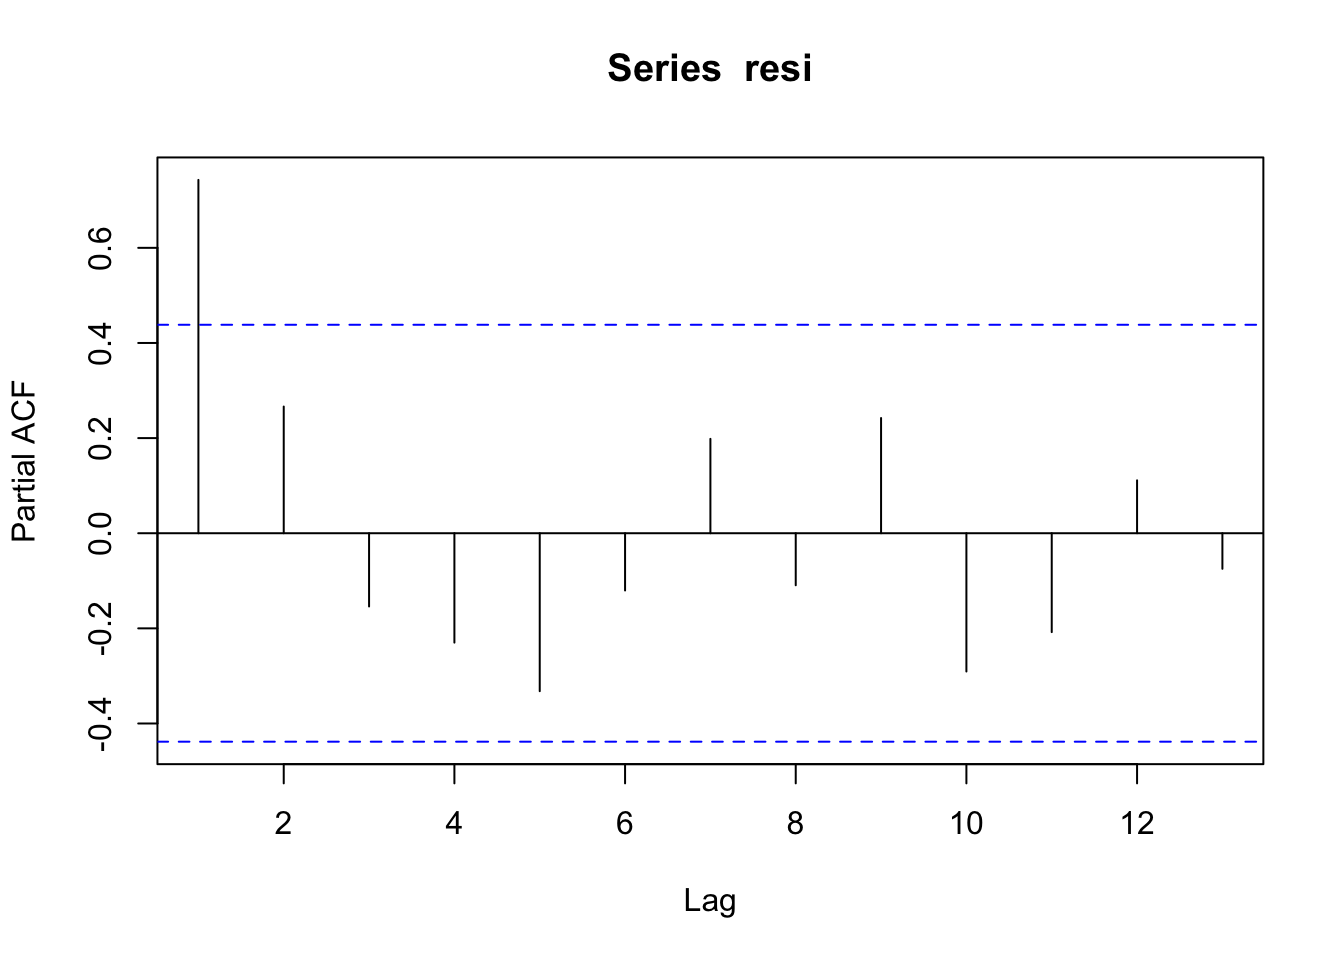
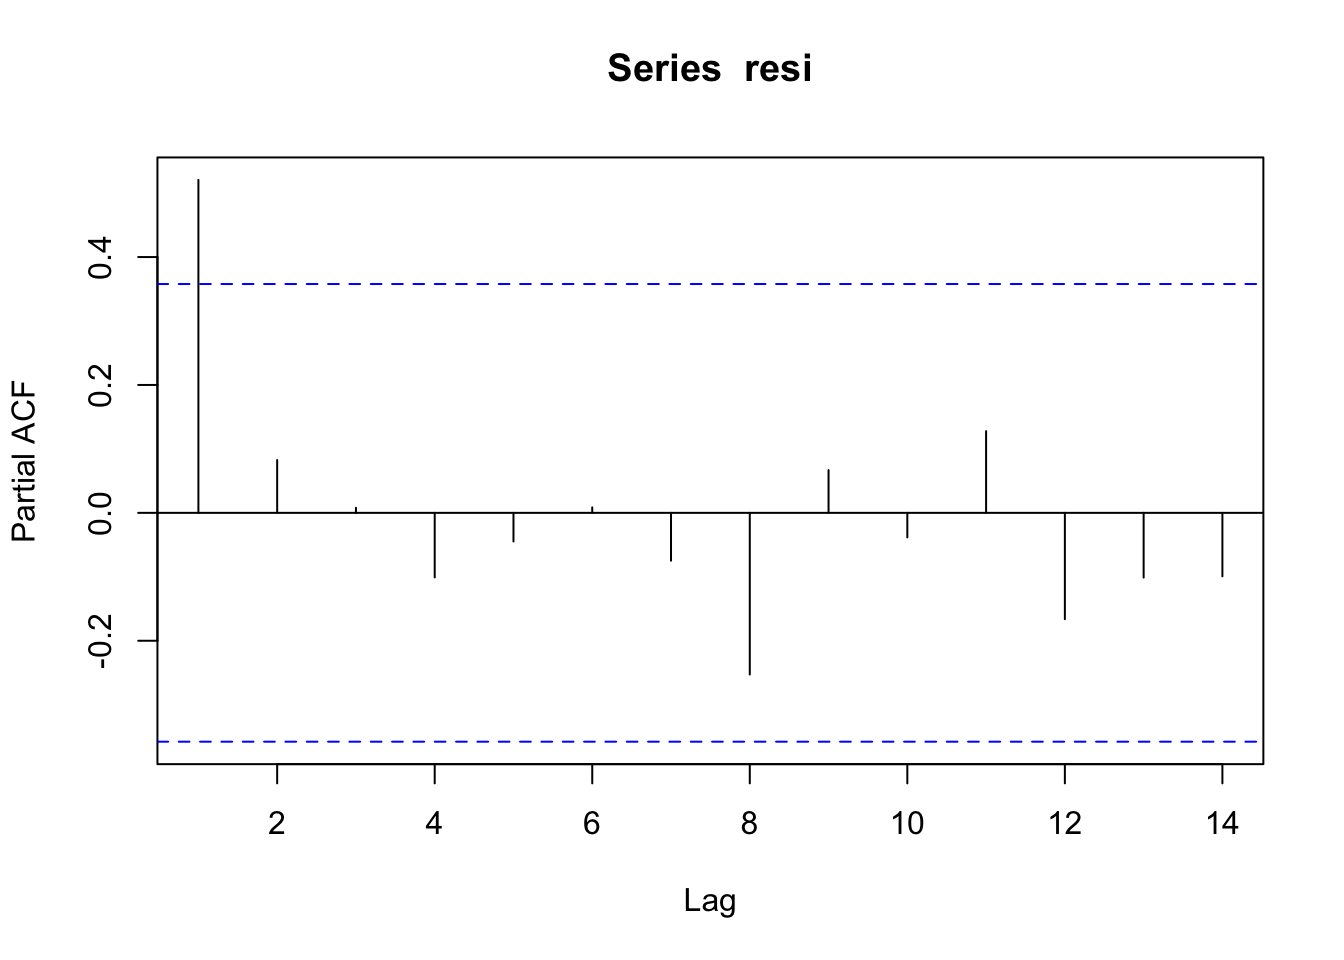
some edits

diff --git a/econometrics.html b/econometrics.html
@@ -11,7 +11,7 @@
 
 
 
-<title>An-Pin Huang</title>
+<title>OLS with Autocorrelation</title>
 
 <script src="site_libs/jquery-1.11.3/jquery.min.js"></script>
 <meta name="viewport" content="width=device-width, initial-scale=1" />
@@ -198,17 +198,20 @@ $(document).ready(function () {
 
 
 
-<h1 class="title toc-ignore">An-Pin Huang</h1>
+<h1 class="title toc-ignore">OLS with Autocorrelation</h1>
 
 </div>
 
 
 <p>Assuming <span class="math inline">\(y_t\)</span> can be written as a linear function of <span class="math inline">\(x\)</span> and the error term <span class="math inline">\(e\)</span> has aurocorrelation <span class="math display">\[y_t = 1.2 + 2.2 x_{1,t} + 2.3 x_{2,t} + e_t \]</span> <span class="math display">\[ e_t = \rho e_{t-1} + w_t ,\, where\, w \sim N(0,\sigma^2)\]</span> To simulate <span class="math inline">\(y\)</span> we do:</p>
 <pre class="r"><code>library(MASS)
-m=20
-x &lt;- mvrnorm(n=m,mu=c(0.05,0.08),Sigma=matrix(c(0.0004,0.00023,0.00023,0.0006),nrow=2,ncol=2,byrow=TRUE))
+library(matrixStats)
+m=30
+x &lt;- mvrnorm(n=m,mu=c(0.05,0.08),
+             Sigma=matrix(c(0.0004,0.00023,0.00023,0.0006),
+                          nrow=2,ncol=2,byrow=TRUE))
 ## assuming autocorrelation in x
-et &lt;- arima.sim(list(order = c(1,0,0),ar=0.8),n=m,rand.gen=rnorm,sd=0.07)
+et &lt;- arima.sim(list(order = c(1,0,0),ar=0.6),n=m,rand.gen=rnorm,sd=0.1)
 yt &lt;- 1.2 + x %*% c(2.2,2.3)+et</code></pre>
 <p>Then we do regress <span class="math inline">\(y\)</span> on <span class="math inline">\(x\)</span> using OLS:</p>
 <pre class="r"><code>regressY &lt;- lm(yt~x)
@@ -219,44 +222,42 @@ summary(regressY)</code></pre>
 ## 
 ## Residuals:
 ##      Min       1Q   Median       3Q      Max 
-## -0.20330 -0.11453 -0.03347  0.11267  0.26414 
+## -0.28105 -0.11752  0.00189  0.06533  0.32156 
 ## 
 ## Coefficients:
 ##             Estimate Std. Error t value Pr(&gt;|t|)    
-## (Intercept)   1.2138     0.1840   6.596 4.54e-06 ***
-## x1           -0.0359     3.6451  -0.010    0.992    
-## x2            1.5047     1.8782   0.801    0.434    
+## (Intercept)   1.0907     0.1089  10.014 1.38e-10 ***
+## x1            2.0106     1.4475   1.389   0.1762    
+## x2            3.4086     1.3572   2.512   0.0183 *  
 ## ---
 ## Signif. codes:  0 &#39;***&#39; 0.001 &#39;**&#39; 0.01 &#39;*&#39; 0.05 &#39;.&#39; 0.1 &#39; &#39; 1
 ## 
-## Residual standard error: 0.1577 on 17 degrees of freedom
-## Multiple R-squared:  0.03784,    Adjusted R-squared:  -0.07535 
-## F-statistic: 0.3343 on 2 and 17 DF,  p-value: 0.7204</code></pre>
+## Residual standard error: 0.1517 on 27 degrees of freedom
+## Multiple R-squared:  0.3396, Adjusted R-squared:  0.2907 
+## F-statistic: 6.943 on 2 and 27 DF,  p-value: 0.003691</code></pre>
 <pre class="r"><code>regressY$coefficients</code></pre>
 <pre><code>## (Intercept)          x1          x2 
-##  1.21377721 -0.03590278  1.50464858</code></pre>
+##    1.090710    2.010553    3.408593</code></pre>
 <p>Test the autocorrelation of residuals</p>
 <pre class="r"><code>resi &lt;- regressY$residuals
 pacf(resi)</code></pre>
 <p><img src="econometrics_files/figure-html/unnamed-chunk-3-1.png" width="672" /></p>
 <pre class="r"><code>ar.ols(resi)</code></pre>
-<pre><code>## Warning in ar.ols(resi): model order: 10 singularities in the computation
-## of the projection matrix results are only valid up to model order 9</code></pre>
 <pre><code>## 
 ## Call:
 ## ar.ols(x = resi)
 ## 
 ## Coefficients:
 ##       1        2        3        4        5        6        7        8  
-##  0.7617   0.8848   0.1502  -0.2951  -0.9551  -0.1699   0.7389   0.9940  
-##       9  
-##  1.8808  
+##  0.0865  -1.4358   0.5794  -0.7252   0.3487   0.1333   0.2572  -0.1644  
+##       9       10       11       12       13       14  
+##  0.2567  -0.1154  -0.6738   0.2218   0.0522  -0.3982  
 ## 
-## Intercept: 0.3264 (0.03426) 
+## Intercept: -0.05609 (0.004513) 
 ## 
-## Order selected 9  sigma^2 estimated as  0.0002346</code></pre>
+## Order selected 14  sigma^2 estimated as  3.303e-05</code></pre>
 <p>Do GLS</p>
-<p><span class="math display">\[y_t - \rho y_{t-1} = \alpha (1-\rho) + \beta_1(x_{1,t} - \rho  x_{1,t-1}) + \beta_2 (x_{2,t} - \rho  x_{2,t-1}) + \epsilon\]</span></p>
+<p><span class="math display">\[y_t - \rho y_{t-1} = \alpha (1-\rho) + \beta_1(x_{1,t} - \rho  x_{1,t-1}) + \beta_2 (x_{2,t} - \rho  x_{2,t-1}) + w\]</span></p>
 <pre class="r"><code>## regress on resi hat
 regressE &lt;- lm(resi[2:length(resi)]~resi[1:(length(resi)-1)]-1)
 rho &lt;- regressE$coefficients[1]
@@ -273,52 +274,26 @@ summary(regressY_GLS)</code></pre>
 ## lm(formula = (yt2 - rho * yt[1:(length(yt) - 1)]) ~ xprime)
 ## 
 ## Residuals:
-##       Min        1Q    Median        3Q       Max 
-## -0.149221 -0.066594  0.008771  0.049226  0.164614 
+##      Min       1Q   Median       3Q      Max 
+## -0.19778 -0.07387 -0.04041  0.11038  0.20567 
 ## 
 ## Coefficients:
 ##             Estimate Std. Error t value Pr(&gt;|t|)    
-## (Intercept)  0.27569    0.03109   8.868 1.42e-07 ***
-## xprime1      0.59617    1.82899   0.326  0.74868    
-## xprime2      2.76506    0.92909   2.976  0.00891 ** 
+## (Intercept)   0.5731     0.0384  14.923 2.91e-14 ***
+## xprime1       1.4554     0.8905   1.634   0.1142    
+## xprime2       2.2951     0.9093   2.524   0.0181 *  
 ## ---
 ## Signif. codes:  0 &#39;***&#39; 0.001 &#39;**&#39; 0.01 &#39;*&#39; 0.05 &#39;.&#39; 0.1 &#39; &#39; 1
 ## 
-## Residual standard error: 0.1002 on 16 degrees of freedom
-## Multiple R-squared:  0.3847, Adjusted R-squared:  0.3078 
-## F-statistic: 5.002 on 2 and 16 DF,  p-value: 0.02054</code></pre>
+## Residual standard error: 0.1125 on 26 degrees of freedom
+## Multiple R-squared:  0.3707, Adjusted R-squared:  0.3223 
+## F-statistic: 7.659 on 2 and 26 DF,  p-value: 0.002426</code></pre>
 <pre class="r"><code>alpha &lt;- regressY_GLS$coefficients[1]/(1-rho)
 alpha</code></pre>
 <pre><code>## (Intercept) 
-##    1.124606</code></pre>
-<p>Cochrane–Orcutt iteration:</p>
-<pre class="r"><code>CochraneOrcuttIteration &lt;- function(y,x,tolerance) {
-  diff &lt;- 1
-  lastBetas &lt;- rep(100,ncol(x)+1)
-  lastRho &lt;- 100
-  regressY &lt;- lm(y~x)
-  resi &lt;- regressY$residuals
-  regressE &lt;- lm(resi[2:length(resi)]~resi[1:(length(resi)-1)] -1)
-  rho &lt;- regressE$coefficients[1]
-  yt2 &lt;- as.matrix(y[2:length(y)])
-  xt2 &lt;- x[2:nrow(x),]
-  while(diff &gt; tolerance) {
-  xprime &lt;- (xt2- c(rho,rho) * x[1:(nrow(x)-1),])
-  regressY_GLS &lt;- lm( (yt2-rho*y[1:(length(y)-1)]) ~ xprime)
-  alpha &lt;- regressY_GLS$coefficients[1]/(1-rho)
-  betas &lt;- c(alpha,regressY_GLS$coefficients[2:length(regressY_GLS$coefficient)])
-  resi &lt;- y-cbind(1,x) %*% as.matrix(betas)
-  regressE &lt;- lm(resi[2:length(resi)]~resi[1:(length(resi)-1)])
-  rho &lt;- regressE$coefficients[2]
-  diff &lt;- abs(max(betas-lastBetas))
-  diff &lt;- max(diff,abs(rho-lastRho))
-  lastBetas &lt;- betas
-  lastRho &lt;- rho 
-  }
-  return(betas)
-}</code></pre>
+##    1.226861</code></pre>
 <p>We redo the above steps for n times:</p>
-<pre class="r"><code>n=6000
+<pre class="r"><code>n=2000
 OLS_coefs &lt;- matrix(nrow=n,ncol=3)
 GLS_coefs &lt;- matrix(nrow=n,ncol=3)
 for(i in 1:n) {
@@ -326,7 +301,7 @@ for(i in 1:n) {
                Sigma=matrix(c(0.0004,0.00023,0.00023,0.0006),
                             nrow=2,ncol=2,byrow=TRUE))
   ## assuming autocorrelation in x
-  et &lt;- arima.sim(list(order = c(1,0,0),ar=0.8),n=m,rand.gen=rnorm,sd=0.07)
+  et &lt;- arima.sim(list(order = c(1,0,0),ar=0.6),n=m,rand.gen=rnorm,sd=0.1)
   yt &lt;- 1.2 + x %*% c(2.2,2.3)+et
   
   regressY &lt;- lm(yt~x)
@@ -347,12 +322,17 @@ for(i in 1:n) {
   # alpha &lt;- regressY_GLS$coefficients[1]/(1-rho)
   # GLS_coefs[i,1] &lt;- alpha
   # GLS_coefs[i,2:3] &lt;- regressY_GLS$coefficients[2:3]
-  GLS_coefs[i,] &lt;- CochraneOrcuttIteration(yt,x,0.001)
+  GLS_coefs[i,] &lt;- CochraneOrcuttIteration(yt,x,0.0005)
 }
 colMeans(OLS_coefs)</code></pre>
-<pre><code>## [1] 1.200898 2.183062 2.297433</code></pre>
+<pre><code>## [1] 1.200011 2.250626 2.264364</code></pre>
 <pre class="r"><code>colMeans(GLS_coefs)</code></pre>
-<pre><code>## [1] 1.208059 2.190290 2.305902</code></pre>
+<pre><code>## [1] 1.198530 2.247717 2.280950</code></pre>
+<p>The variance of sampling distribution of GLS is much smaller than that of OLS, and is therefore more effieicnt.</p>
+<pre class="r"><code>colVars(OLS_coefs)</code></pre>
+<pre><code>## [1] 0.008265137 1.785587188 1.145545046</code></pre>
+<pre class="r"><code>colVars(GLS_coefs)</code></pre>
+<pre><code>## [1] 0.005804918 0.994210572 0.663942770</code></pre>
 
 
 

diff --git a/about.html b/about.html
@@ -11,7 +11,7 @@
 
 
 
-<title>An-Pin Huang</title>
+<title></title>
 
 <script src="site_libs/jquery-1.11.3/jquery.min.js"></script>
 <meta name="viewport" content="width=device-width, initial-scale=1" />
@@ -198,24 +198,23 @@ $(document).ready(function () {
 
 
 
-<h1 class="title toc-ignore">An-Pin Huang</h1>
 
 </div>
 
 
-<div class="figure">
-<img src="suit%20up.jpeg" />
-
+<div id="an-pin-ben-huang" class="section level4">
+<h4>An-Pin (Ben) Huang</h4>
+<p><img src="suitUp.jpeg" width="150" height="150" /></p>
 </div>
-<div id="education" class="section level3">
-<h3>Education</h3>
+<div id="education" class="section level4">
+<h4>Education</h4>
 <ul>
 <li>Boston University, MS in Mathematical Finance</li>
 <li>National Tsing Hua University, BS in Quantitative Finance</li>
 </ul>
 </div>
-<div id="experience" class="section level3">
-<h3>Experience</h3>
+<div id="experience" class="section level4">
+<h4>Experience</h4>
 <ul>
 <li>UBS, Risk Modeling and Analytics Specialist</li>
 <li>Wellington Management Company, Technology Associate (QA Analyst) of Financial Derivatives Systems</li>
